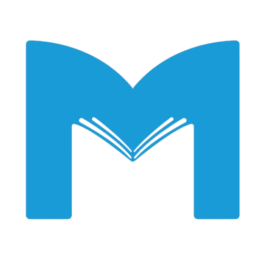
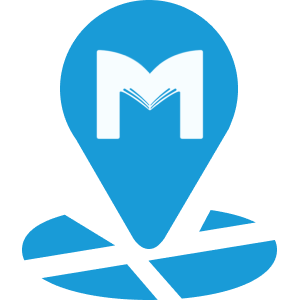
Atualização de plugin com edição de icones

diff --git a/assets/js/mapa.js b/assets/js/mapa.js
@@ -9,3 +9,17 @@ document.addEventListener('DOMContentLoaded', function() {
         console.log("Geolocalização não suportada pelo navegador.");
     }
 });
+
+// Definindo os ícones do mapa e do usuário com fallback para ícones padrão
+const mapaIconUrl = "<?php echo esc_js(get_option('mapa_icon_url', 'URL_DO_ICONE_PADRAO_DO_MAPA')); ?>";
+const userIconUrl = "<?php echo esc_js(get_option('user_icon_url', 'URL_DO_ICONE_PADRAO_DO_USUARIO')); ?>";
+
+const mapaIcon = L.icon({
+    iconUrl: mapaIconUrl,
+    iconSize: [32, 32], // ajuste o tamanho do ícone conforme necessário
+});
+
+const userIcon = L.icon({
+    iconUrl: userIconUrl,
+    iconSize: [32, 32], // ajuste o tamanho do ícone conforme necessário
+});

diff --git a/mapa.php b/mapa.php
@@ -17,20 +17,89 @@ define('PLUGIN_URL', plugin_dir_url(__FILE__));
 require_once PLUGIN_PATH . 'includes/enqueue-scripts.php';
 require_once PLUGIN_PATH . 'includes/class-mapa.php';
 
-function mapa_concursos_init() {
-
+function mapa_concursos_add_admin_page() {
     add_menu_page(
         'Mapa de Concursos',
         'Mapa de Concursos',
         'manage_options',
-        'mapa-concursos',
-        'mapa_concursos_page',
-        PLUGIN_URL . 'assets/images/mapa-icon.png', 
-        25
+        'mapa_concursos_settings',
+        'mapa_concursos_render_settings_page',
+        'dashicons-location', 
+        110
     );
 }
-add_action('admin_menu', 'mapa_concursos_init');
+add_action('admin_menu', 'mapa_concursos_add_admin_page');
 
+function mapa_concursos_render_settings_page() {
+    ?>
+    <div class="wrap">
+        <h1>Configurações do Mapa de Concursos</h1>
+        <form method="post" action="options.php" enctype="multipart/form-data">
+            <?php
+            settings_fields('mapa_concursos_settings');
+            do_settings_sections('mapa_concursos_settings');
+            submit_button();
+            ?>
+        </form>
+    </div>
+
+    <!-- Script para upload de ícone usando a Media Library do WordPress -->
+    <script type="text/javascript">
+    function uploadIcon(inputId) {
+        var custom_uploader = wp.media({
+            title: 'Selecione o Ícone',
+            button: {
+                text: 'Usar este Ícone'
+            },
+            multiple: false
+        }).on('select', function() {
+            var attachment = custom_uploader.state().get('selection').first().toJSON();
+            document.getElementById(inputId).value = attachment.url;
+        }).open();
+    }
+    </script>
+    <?php
+}
+
+function mapa_concursos_register_settings() {
+    register_setting('mapa_concursos_settings', 'mapa_icon_url');
+    register_setting('mapa_concursos_settings', 'user_icon_url');
+
+    add_settings_section(
+        'mapa_concursos_section',
+        'Ícones do Mapa',
+        null,
+        'mapa_concursos_settings'
+    );
+
+    add_settings_field(
+        'mapa_icon_url',
+        'Ícone do Mapa',
+        'mapa_concursos_icon_field_callback',
+        'mapa_concursos_settings',
+        'mapa_concursos_section',
+        ['label_for' => 'mapa_icon_url']
+    );
+
+    add_settings_field(
+        'user_icon_url',
+        'Ícone do Usuário',
+        'mapa_concursos_icon_field_callback',
+        'mapa_concursos_settings',
+        'mapa_concursos_section',
+        ['label_for' => 'user_icon_url']
+    );
+}
+add_action('admin_init', 'mapa_concursos_register_settings');
+
+function mapa_concursos_icon_field_callback($args) {
+    $option = get_option($args['label_for']);
+    ?>
+    <input type="text" id="<?php echo esc_attr($args['label_for']); ?>" name="<?php echo esc_attr($args['label_for']); ?>" value="<?php echo esc_url($option); ?>" />
+    <input type="button" class="button" value="Upload Ícone" onclick="uploadIcon('<?php echo esc_attr($args['label_for']); ?>')" />
+    <p class="description">URL do ícone. Deixe em branco para usar o ícone padrão.</p>
+    <?php
+}
 
 add_action('woocommerce_product_options_general_product_data', 'add_concurso_coordinates_fields');
 function add_concurso_coordinates_fields() {
@@ -66,7 +135,10 @@ function save_concurso_coordinates_fields($post_id) {
 function mapa_concursos_page() {
     echo '<h1>Configurações do Mapa de Concursos</h1>';
     echo '<p>Configure os mapas e informações dos concursos próximos ao usuário.</p>';
+
+    the_content();
 }
+
 
 function shortcode_mapa_concursos($atts) {
     $atts = shortcode_atts(['categoria' => ''], $atts, 'mapa_concursos');

diff --git a/includes/class-mapa.php b/includes/class-mapa.php
@@ -3,12 +3,18 @@ class Map_Helper {
     public static function get_concursos_by_category($categoria = '') {
         $args = [
             'post_type' => 'product',
+            'posts_per_page' => -1, // Pega todos os produtos sem limite
         ];
         
-        // Condicional para quando não houver categoria
+        // Verifique se uma categoria foi especificada
         if (!empty($categoria)) {
-            // 'meta_key' => '_concurso_categoria',
-            $args['meta_value'] = $categoria;
+            $args['meta_query'] = [
+                [
+                    'key' => '_concurso_categoria',
+                    'value' => $categoria,
+                    'compare' => '='
+                ]
+            ];
         }
 
         return new WP_Query($args);
@@ -16,22 +22,21 @@ class Map_Helper {
     
     public static function render_mapa_concursos($categoria = '') {
         $concursos = self::get_concursos_by_category($categoria);
-        
-        echo '<div id="mapa_' . esc_attr($categoria) . '" style="width: 100%; height: 400px;"></div>';
+        $map_id = 'mapa_' . esc_attr($categoria) . '_' . uniqid();
+    
+        echo '<div id="' . esc_attr($map_id) . '" style="width: 100%; height: 400px;"></div>';
         echo '<script>
-            var map = L.map("mapa_' . esc_attr($categoria) . '").setView([-9.6658, -35.735], 8);
+            var map = L.map("' . esc_attr($map_id) . '").setView([-9.6658, -35.735], 8);
             L.tileLayer("https://{s}.tile.openstreetmap.org/{z}/{x}/{y}.png").addTo(map);
             
-            // Ícone personalizado para concursos
             var concursoIcon = L.icon({
                 iconUrl: "' . PLUGIN_URL . 'assets/images/concurso-icon.png",
-                iconSize: [40, 40], // Ajuste o tamanho conforme necessário
-                iconAnchor: [20, 40], // Ponto de ancoragem do ícone (metade da largura e altura)
-                popupAnchor: [0, -40] // Ponto onde o popup aparecerá em relação ao ícone
+                iconSize: [40, 40],
+                iconAnchor: [20, 40],
+                popupAnchor: [0, -40]
             });
         ';
     
-        // Adiciona os marcadores dos concursos com o ícone personalizado
         while ($concursos->have_posts()) {
             $concursos->the_post();
             $latitude = get_post_meta(get_the_ID(), '_concurso_latitude', true);
@@ -47,24 +52,21 @@ class Map_Helper {
                 var userLat = position.coords.latitude;
                 var userLng = position.coords.longitude;
     
-                // Define o ícone personalizado (boneco)
                 var userIcon = L.icon({
-                    iconUrl: "' . PLUGIN_URL . 'assets/images/user-icon.png", 
-                    iconSize: [30, 30], 
-                    iconAnchor: [15, 30], 
-                    popupAnchor: [0, -30] 
+                    iconUrl: "' . PLUGIN_URL . 'assets/images/user-icon.png",
+                    iconSize: [30, 30],
+                    iconAnchor: [15, 30],
+                    popupAnchor: [0, -30]
                 });
     
-                // Adiciona o marcador do usuário ao mapa
                 L.marker([userLat, userLng], { icon: userIcon }).addTo(map)
                     .bindPopup("Você está aqui").openPopup();
     
-                // Centraliza o mapa na posição do usuário
                 map.setView([userLat, userLng], 12);
             }, function(error) {
                 console.log("Erro ao obter a localização do usuário:", error.message);
             });
         ';
         echo '</script>';
-    }    
+    }  
 }

diff --git a/includes/enqueue-scripts.php b/includes/enqueue-scripts.php
@@ -1,12 +1,8 @@
 <?php
 function mapa_concursos_enqueue_scripts() {
-    wp_enqueue_style('mapa-concursos-style', plugin_dir_url(__FILE__) . '../assets/css/style.css');
-
+    wp_enqueue_style('mapa-concursos-style', plugins_url('../assets/css/style.css', __FILE__));
     wp_enqueue_style('leaflet-css', 'https://unpkg.com/leaflet@1.7.1/dist/leaflet.css');
     wp_enqueue_script('leaflet-js', 'https://unpkg.com/leaflet@1.7.1/dist/leaflet.js', [], null, true);
-
-    // wp_enqueue_script('leaflet-js', 'https://unpkg.com/leaflet@1.7.1/dist/leaflet.js', [], '1.7.1', true);
-    
-    wp_enqueue_script('mapa-concursos-js', plugin_dir_url(__FILE__) . '../assets/js/mapa.js', ['leaflet-js'], '1.0', true);
+    wp_enqueue_script('mapa-concursos-js', plugins_url('../assets/js/mapa.js', __FILE__), ['leaflet-js'], '1.0', true);
 }
 add_action('wp_enqueue_scripts', 'mapa_concursos_enqueue_scripts');
